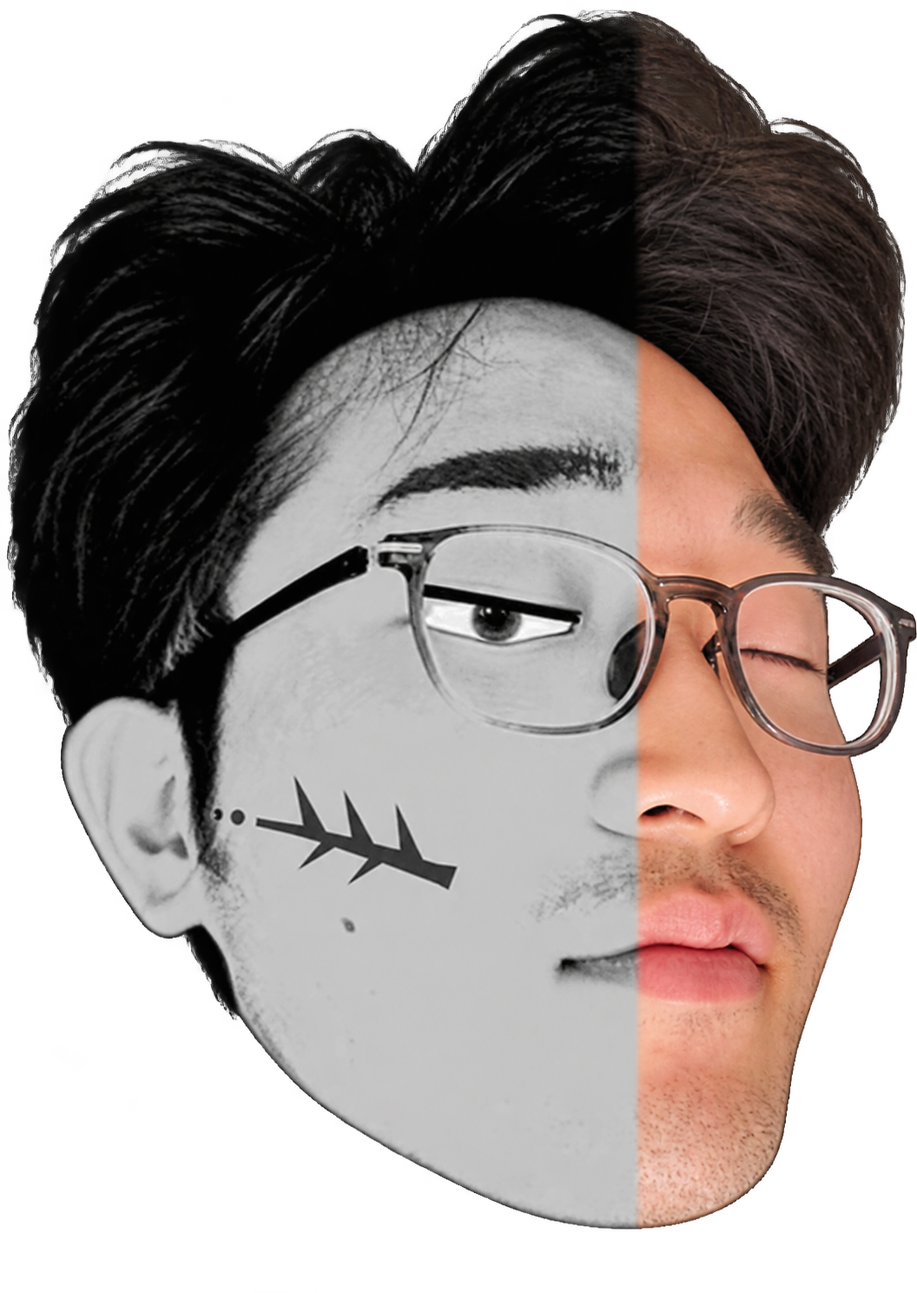
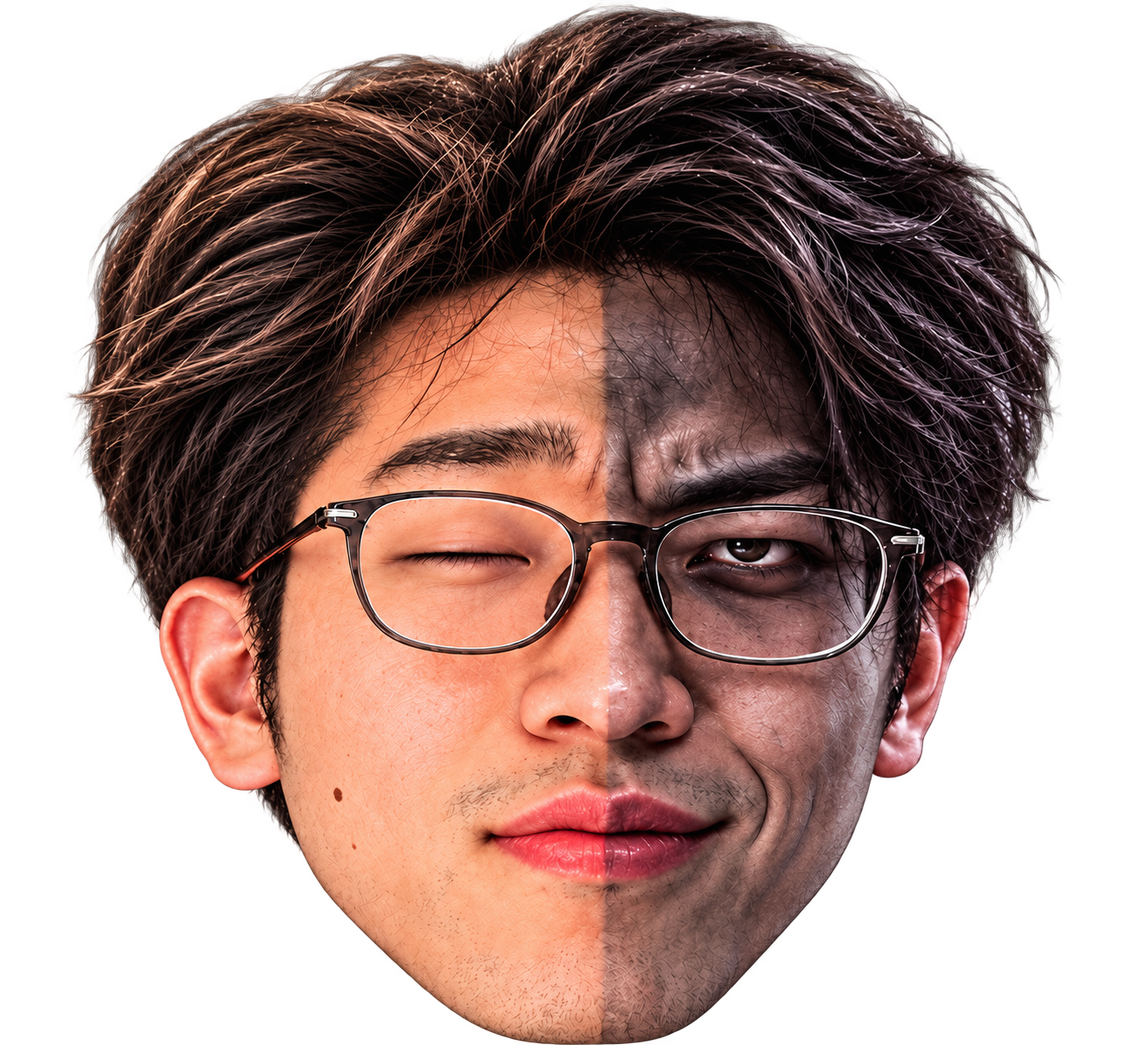
Update Jekyll and Haibeom character portraits

diff --git a/index.html b/index.html
@@ -243,7 +243,7 @@ html.prologue-pending #auth-gate[open]{visibility:visible}
 <dialog id="friends" aria-labelledby="fr-title"><h3 id="fr-title">👥 플레이어</h3><div id="fr-list-view"><ul id="fr-list"></ul><small id="fr-note">🟢 접속 · AI전 / 보스전 / 1대1 플레이중 (대전 신청 · 채팅) · ⚪ 미접속 (마지막 접속)</small></div>
 <div id="fr-chat-view" hidden><button type="button" id="fr-back" class="ghost">← 목록</button> <b id="fr-chat-name"></b><ul id="fr-msgs"></ul><form id="fr-form"><input id="fr-input" maxlength="200" autocomplete="off" placeholder="메시지 입력" aria-label="메시지"><button type="submit">보내기</button></form></div>
 <button type="button" id="fr-close" class="ghost">닫기</button></dialog>
-<dialog id="mychar" aria-labelledby="mc-title"><h3 id="mc-title">내 캐릭터 설정</h3><div class="char-card"><canvas id="char-face" width="224" height="224" aria-hidden="true"></canvas><b id="char-name">휴고범</b></div><label class="field">내 캐릭터 <select id="character"><option value="jersey" selected>휴고범 · 백핸드 강타 / 포핸드 실수 주의</option><option value="leesin">리신범 · 용의 드라이브 · 용의 스매싱 ×1.5 / 50% 앞이 깜깜</option><option value="percival">퍼시벌 · 왼손 사이드스핀 (상대 리턴 −8% · 아웃 +5%) · 자신감 (PERFECT마다 공격 +5%, 최대 3스택)</option><option value="drunk">만취범 · 괴력 7% ×2 · 17% ×1.5 · 15% ×1.2 · 8% 붕 뜬 공 · 득점 1% 무효</option><option value="ajae">아재범 · 우기기 (나간 공 10% 엣지 · 경기당 3점 · 못 받은 서브 30% 네트)</option><option value="minhee">민희쌤 · 너무 강력한 포핸드: 재끼기 10% · ×1.3 20% · 라켓 파손 10%</option><option value="yunhwan">카사노바 윤 · 커트 회전 ×1.3</option><option value="ttalgak">날먹세 · 서브 ×1.3 회전 · ×1.35 속도 · 리시브 20% 뜸 · 3% 네트 · 3% 아웃 / 급한 이동 −30%</option><option value="adam">아담 성 · 드라이브 대신 모든 공을 휘어 보냄 (드라이브엔 상회전 · 커트엔 하회전) · 찬스볼에 드라이브 스윙 = 스매시 페이크 짧은 공</option><option value="gambler">올인 도박사 · 랠리 첫 타 50% 대박(×1.8 · 상대 리턴 −25%) / 50% 쪽박(찬스볼) · 연속 득점마다 대박 +5%</option><option value="glass">유리대포 · 모든 타구 ×1.8 · PERFECT 아니면 30% 실수</option><option value="smashman">스매싱 광 · 모든 스윙이 스매시 ×1.3</option><option value="sleepy">지킬앤 희범 · 2점마다 변신: 지킬(실수 −15% · 공격 −10%) / 하이드(공격 +15% · 실수 +10%)</option><option value="jiseong">김치성 · 승승패패패: 3점 이상 앞서면 실수 +10% / 패패승승승: 3점 이상 지면 모든 타구 +30%</option><option value="songstar">송스타 · 수비수 라켓 · 백핸드 롱 수비 · 커트 회전 강화 · 포핸드 공격 5% 실수</option><option value="chungdae">충대 화잡이 · 포핸드 드라이브 회전 ×1.5 · 속도 ×1.3 · 서브 미스 10% · 서브 뜸 10% · 백핸드 뜬 공 10%</option><option value="kumho">금호탁구장관장 · 모든 리시브 로빙 · 찬스볼은 스매시 · 상회전 서브만 · 일본식 펜홀더</option><option value="jongryeong">빽종령 · 백스매시 10% ×1.3 · 백핸드 블록 +5% · 포핸드 뜬 공 5%</option><option value="seohyun">김서현 · 맞드라이브 속도 ×1.5 · 회전 ×1.3 · 짧은 커트 서브 · 백핸드 실수 10%</option><option value="plain">파란 선수</option></select></label><label class="field">내 라켓 <select id="racket"><option value="shake" selected>쉐이크핸드 · 백핸드 드라이브</option><option value="cpen">중국식 펜홀더 · 빠른 손목</option><option value="jpen">일본식 펜홀더 · 강한 한 방</option><option value="defense">수비수 라켓 · 백핸드 커트 · 포핸드 공격 가능</option></select></label><div id="gear" class="gear"><label class="field">목판 <select id="blade"><option value="ply">합판 · 안정적</option><option value="inner">이너 카본 · 회전</option><option value="outer">아우터 카본 · 속도</option></select></label><label class="field">러버 <select id="rubber"><option value="spin">09C · 회전 ↑↑ · 속도 ↓</option><option value="speed">05 · 속도 ↑↑ · 컨트롤 어려움</option><option value="control">64 · 컨트롤 좋음</option><option value="pips">SP 숏핌플 · 속도 ×1.3 · 회전 적음</option></select></label></div><div class="help-note" id="racket-note"></div><div class="apply-row"><small id="pending-note" hidden>변경사항이 있어요 · 적용을 눌러야 바뀝니다</small><button id="apply-settings" type="button" disabled>설정 적용</button></div><div class="su-row"><button type="button" id="mychar-close" class="ghost">닫기</button></div></dialog>
+<dialog id="mychar" aria-labelledby="mc-title"><h3 id="mc-title">내 캐릭터 설정</h3><div class="char-card"><canvas id="char-face" width="224" height="224" aria-hidden="true"></canvas><b id="char-name">휴고범</b></div><label class="field">내 캐릭터 <select id="character"><option value="jersey" selected>휴고범 · 백핸드 강타 / 포핸드 실수 주의</option><option value="leesin">리신범 · 용의 드라이브 · 용의 스매싱 ×1.5 / 50% 앞이 깜깜</option><option value="percival">퍼시벌 · 왼손 사이드스핀 (상대 리턴 −8% · 아웃 +5%) · 자신감 (PERFECT마다 공격 +5%, 최대 3스택)</option><option value="drunk">만취범 · 괴력 7% ×2 · 17% ×1.5 · 15% ×1.2 · 8% 붕 뜬 공 · 득점 1% 무효</option><option value="ajae">아재범 · 우기기 (나간 공 10% 엣지 · 경기당 3점 · 못 받은 서브 30% 네트)</option><option value="minhee">민희쌤 · 너무 강력한 포핸드: 재끼기 10% · ×1.3 20% · 라켓 파손 10%</option><option value="yunhwan">카사노바 윤 · 커트 회전 ×1.3</option><option value="ttalgak">날먹세 · 서브 ×1.3 회전 · ×1.35 속도 · 리시브 20% 뜸 · 3% 네트 · 3% 아웃 / 급한 이동 −30%</option><option value="adam">아담 성 · 드라이브 대신 모든 공을 휘어 보냄 (드라이브엔 상회전 · 커트엔 하회전) · 찬스볼에 드라이브 스윙 = 스매시 페이크 짧은 공</option><option value="gambler">올인 도박사 · 랠리 첫 타 50% 대박(×1.8 · 상대 리턴 −25%) / 50% 쪽박(찬스볼) · 연속 득점마다 대박 +5%</option><option value="glass">유리대포 · 모든 타구 ×1.8 · PERFECT 아니면 30% 실수</option><option value="smashman">스매싱 광 · 모든 스윙이 스매시 ×1.3</option><option value="sleepy">지킬앤 하이범 · 2점마다 변신: 지킬(실수 −15% · 공격 −10%) / 하이범(공격 +15% · 실수 +10%)</option><option value="jiseong">김치성 · 승승패패패: 3점 이상 앞서면 실수 +10% / 패패승승승: 3점 이상 지면 모든 타구 +30%</option><option value="songstar">송스타 · 수비수 라켓 · 백핸드 롱 수비 · 커트 회전 강화 · 포핸드 공격 5% 실수</option><option value="chungdae">충대 화잡이 · 포핸드 드라이브 회전 ×1.5 · 속도 ×1.3 · 서브 미스 10% · 서브 뜸 10% · 백핸드 뜬 공 10%</option><option value="kumho">금호탁구장관장 · 모든 리시브 로빙 · 찬스볼은 스매시 · 상회전 서브만 · 일본식 펜홀더</option><option value="jongryeong">빽종령 · 백스매시 10% ×1.3 · 백핸드 블록 +5% · 포핸드 뜬 공 5%</option><option value="seohyun">김서현 · 맞드라이브 속도 ×1.5 · 회전 ×1.3 · 짧은 커트 서브 · 백핸드 실수 10%</option><option value="plain">파란 선수</option></select></label><label class="field">내 라켓 <select id="racket"><option value="shake" selected>쉐이크핸드 · 백핸드 드라이브</option><option value="cpen">중국식 펜홀더 · 빠른 손목</option><option value="jpen">일본식 펜홀더 · 강한 한 방</option><option value="defense">수비수 라켓 · 백핸드 커트 · 포핸드 공격 가능</option></select></label><div id="gear" class="gear"><label class="field">목판 <select id="blade"><option value="ply">합판 · 안정적</option><option value="inner">이너 카본 · 회전</option><option value="outer">아우터 카본 · 속도</option></select></label><label class="field">러버 <select id="rubber"><option value="spin">09C · 회전 ↑↑ · 속도 ↓</option><option value="speed">05 · 속도 ↑↑ · 컨트롤 어려움</option><option value="control">64 · 컨트롤 좋음</option><option value="pips">SP 숏핌플 · 속도 ×1.3 · 회전 적음</option></select></label></div><div class="help-note" id="racket-note"></div><div class="apply-row"><small id="pending-note" hidden>변경사항이 있어요 · 적용을 눌러야 바뀝니다</small><button id="apply-settings" type="button" disabled>설정 적용</button></div><div class="su-row"><button type="button" id="mychar-close" class="ghost">닫기</button></div></dialog>
 <dialog id="aipick" aria-labelledby="ap-title"><h3 id="ap-title">AI 대전 · 난이도 선택</h3><p>상대의 부수(7부 ~ 선수부)는 설정의 '상대 난이도'에서 고를 수 있어요.</p><div class="pick-list"><button type="button" data-tier="easy"><b>이지</b><small>지금까지의 AI 대전 · 부수별로 편하게 즐겨요</small></button><button type="button" data-tier="hard"><b>하드</b><small>모든 공을 훨씬 잘 받아내고 필살기도 어느 정도 막아요 · 상대도 필살기를 써요</small></button><button type="button" data-tier="extreme"><b>익스트림</b><small>하드 + 터치 위치가 2곳인 '투클릭 공'이 와요 (7부 10% ~ 선수부 50%)</small></button><button type="button" data-tier="ultra"><b>울트라</b><small>상대의 모든 공이 투클릭 공 · 두 번 눌러야 넘어가요</small></button><button type="button" data-tier="uhard"><b>울트라 하드</b><small>높은 리턴률과 빠른 공격 · 최대 투터치</small></button><button type="button" data-tier="uext"><b>울트라 익스트림</b><small>최고 리턴률과 강한 회전 · 최대 투터치</small></button></div><div class="su-row"><button type="button" id="ap-close" class="ghost">닫기</button></div></dialog>
 <dialog id="pracpick" aria-labelledby="pp-title"><h3 id="pp-title">연습장</h3><p>연습할 모드를 고르세요. 점수 제한과 랭킹 기록이 없어요.</p><div class="pick-list"><button type="button" data-prac="practice"><b>🏓 연습 봇</b><small>일반 연습 랠리 · 리턴이 쉬워요</small></button><button type="button" data-prac="cutman"><b>✂ 커트맨 봇전</b><small>항상 두 번 튀는 짧은 커트 서브 · 테이블 위에서 받기 연습</small></button><button type="button" data-prac="twoclick"><b>🎯 투클릭 공 연습</b><small>공마다 터치 위치가 ①②로 두 곳 · 차례로 두 번 쳐서 넘기기</small></button><button type="button" data-prac="hiball"><b>🪂 높은 공 추적 연습</b><small>높은 로빙 공 · 타이밍 원에 맞춰 스윙</small></button></div><div class="su-row"><button type="button" id="pp-close" class="ghost">닫기</button></div></dialog>
 <dialog id="lobby" aria-labelledby="lb-title"><section id="lb-list"><h3 id="lb-title">빠른 매칭 · 방 목록</h3><p>들어갈 방을 고르거나, 마음에 드는 방이 없으면 직접 만드세요.</p><ul id="lb-rooms"></ul><small id="lb-msg" aria-live="polite"></small><div class="su-row"><button type="button" id="lb-close" class="ghost">닫기</button><button type="button" id="lb-refresh" class="ghost">새로고침 ↻</button><button type="button" id="lb-create">단식 방 만들기 (2명)</button><button type="button" id="lb-create2">복식 방 만들기 (4명)</button><button type="button" id="lb-create3">3인 방 만들기 (3명)</button></div></section><section id="lb-wait" hidden><h3>대기방</h3><p id="lb-sub">상대가 들어오면 대결을 시작할 수 있어요.</p><div class="lb-box"><small>방 코드</small><b id="lb-code">····</b></div><div class="lb-box"><small id="lb-n1">방장</small><b id="lb-p1">-</b></div><div class="lb-box"><small id="lb-n2">상대</small><b id="lb-slot2">상대를 기다리는 중…</b></div><div class="lb-box lb-dbl" hidden><small>상대 팀 1</small><b id="lb-slot3">기다리는 중…</b></div><div class="lb-box lb-dbl" hidden><small>상대 팀 2</small><b id="lb-slot4">기다리는 중…</b></div><div class="su-row"><button type="button" id="lb-leave" class="ghost">나가기</button><button type="button" id="lb-start" disabled>대결 시작 ▶</button></div></section></dialog>
@@ -251,7 +251,7 @@ html.prologue-pending #auth-gate[open]{visibility:visible}
 <section id="su-p1"><h3 id="su-title">라켓을 고르세요</h3><div id="su-racket" class="su-opts"></div><div id="su-gear"><label>목판 <select id="su-blade"></select></label><label>러버 <select id="su-rubber"></select></label></div><p id="su-note"></p><div class="su-row"><button type="button" id="su-cancel" class="ghost">취소</button><button type="button" id="su-next">다음 →</button></div></section>
 <section id="su-p2" hidden><h3>AI 대전 난이도를 고르세요</h3><div id="su-tier" class="su-opts"></div><div class="su-row"><button type="button" id="su-back2" class="ghost">← 이전</button><button type="button" id="su-next2">다음 →</button></div></section>
 <section id="su-p3" hidden><h3>상대 부수를 고르세요</h3><div id="su-diff" class="su-opts"></div><div class="su-row"><button type="button" id="su-back" class="ghost">← 이전</button><button type="button" id="su-play">플레이 시작 ↗</button></div></section></dialog>
-<p id="victory-status" role="status" aria-live="polite" hidden></p><div id="overlay" class="overlay"><div class="start-card"><span class="pill">YOUR NEXT RALLY STARTS HERE</span><h2>SNAP Ping pong</h2><p></p><div id="lv-box"><b id="lv-label">Lv 1</b><span class="lv-bar"><i id="lv-fill"></i></span><small id="lv-xp">0 / 100 XP</small><button type="button" id="rn-open">스킬트리 · 필살기 <b id="rn-badge" hidden>!</b></button><button type="button" id="q-open">📜 퀘스트 <b id="q-badge" hidden>!</b></button><button type="button" id="t-open">🏅 칭호</button><button type="button" id="fit-open">👕 커스터마이징</button><span id="lv-title" hidden></span></div><div id="login-box"><button id="google-login" type="button"><svg viewBox="0 0 48 48" width="18" height="18" aria-hidden="true"><path fill="#EA4335" d="M24 9.5c3.5 0 6.6 1.2 9.1 3.6l6.8-6.8C35.8 2.5 30.3 0 24 0 14.6 0 6.6 5.4 2.7 13.3l7.9 6.1C12.5 13.6 17.8 9.5 24 9.5z"/><path fill="#4285F4" d="M46.1 24.6c0-1.6-.1-3.1-.4-4.6H24v9h12.4c-.5 2.9-2.2 5.3-4.6 6.9l7.4 5.7c4.3-4 6.9-9.9 6.9-17z"/><path fill="#FBBC05" d="M10.6 28.6c-.5-1.4-.8-3-.8-4.6s.3-3.2.8-4.6l-7.9-6.1C1 16.6 0 20.2 0 24s1 7.4 2.7 10.7l7.9-6.1z"/><path fill="#34A853" d="M24 48c6.5 0 11.9-2.1 15.9-5.8l-7.4-5.7c-2.1 1.4-4.8 2.3-8.5 2.3-6.2 0-11.5-4.1-13.4-9.9l-7.9 6.1C6.6 42.6 14.6 48 24 48z"/></svg>Google로 로그인</button><button id="naver-login" type="button" hidden><b>N</b> 네이버로 로그인</button><button id="google-logout" type="button" hidden>로그아웃</button><small id="login-status"></small></div><div id="char-pick" role="radiogroup" aria-label="캐릭터 선택"><button type="button" role="radio" data-char="jersey"><canvas width="96" height="96" aria-hidden="true"></canvas>휴고범</button><button type="button" role="radio" data-char="leesin"><canvas width="96" height="96" aria-hidden="true"></canvas>리신범</button><button type="button" role="radio" data-char="percival"><canvas width="96" height="96" aria-hidden="true"></canvas>퍼시벌</button><button type="button" role="radio" data-char="drunk"><canvas width="96" height="96" aria-hidden="true"></canvas>만취범</button><button type="button" role="radio" data-char="ajae"><canvas width="96" height="96" aria-hidden="true"></canvas>아재범</button><button type="button" role="radio" data-char="minhee"><canvas width="96" height="96" aria-hidden="true"></canvas>민희쌤</button><button type="button" role="radio" data-char="yunhwan"><canvas width="96" height="96" aria-hidden="true"></canvas>카사노바 윤</button><button type="button" role="radio" data-char="seohyun"><canvas width="96" height="96" aria-hidden="true"></canvas>김서현</button><button type="button" role="radio" data-char="jongryeong"><canvas width="96" height="96" aria-hidden="true"></canvas>빽종령</button><button type="button" role="radio" data-char="kumho"><canvas width="96" height="96" aria-hidden="true"></canvas>금호관장</button><button type="button" role="radio" data-char="chungdae"><canvas width="96" height="96" aria-hidden="true"></canvas>화잡이</button><button type="button" role="radio" data-char="songstar"><canvas width="96" height="96" aria-hidden="true"></canvas>송스타</button><button type="button" role="radio" data-char="ttalgak"><canvas width="96" height="96" aria-hidden="true"></canvas>날먹세</button><button type="button" role="radio" data-char="jiseong"><canvas width="96" height="96" aria-hidden="true"></canvas>김치성</button><button type="button" role="radio" data-char="sleepy"><canvas width="96" height="96" aria-hidden="true"></canvas>지킬앤 희범</button><button type="button" role="radio" data-char="adam"><canvas width="96" height="96" aria-hidden="true"></canvas>아담 성</button><button type="button" role="radio" data-char="gambler"><canvas width="96" height="96" aria-hidden="true"></canvas>올인 도박사</button><button type="button" role="radio" data-char="glass"><canvas width="96" height="96" aria-hidden="true"></canvas>유리대포</button><button type="button" role="radio" data-char="smashman"><canvas width="96" height="96" aria-hidden="true"></canvas>스매싱 광</button></div><div id="rank-submit" hidden><div class="rank-row" hidden><input id="rank-name" maxlength="12" placeholder="닉네임 (12자)" autocomplete="nickname" aria-label="랭킹 닉네임"><button id="rank-send" type="button">랭킹 등록 🏆</button></div><small id="rank-msg" aria-live="polite"></small></div><button id="resume" hidden>이어하기 <span>▶</span></button><button id="mode-open" type="button">모드 설정 <span>⚙</span></button><button id="start">플레이 시작 <span>↗</span></button><div id="net-box"><input id="net-nick" hidden maxlength="12" placeholder="닉네임 (랭킹전 표시)" autocomplete="nickname" aria-label="닉네임"><small id="pvp-me"></small><button id="net-quick" type="button">빠른 매칭 🎲</button><button id="net-host" type="button">온라인 방 만들기 <span>⇄</span></button><div class="net-join"><input id="net-code" maxlength="4" placeholder="방 코드" autocomplete="off" autocapitalize="characters" aria-label="방 코드"><button id="net-join" type="button">참가</button></div><small id="net-status" aria-live="polite">빠른 매칭: 방 목록에서 방을 고르거나 직접 만들어요 · 친구와는 방 코드로</small></div><small>손가락 또는 마우스로 플레이 · 일시정지 버튼 / Space</small></div></div><div id="toast" class="toast">링이 라켓 크기 원에 딱 맞는 순간 스윙하세요</div><div id="ai-special-notice" class="ai-special-notice" role="status" aria-live="polite" hidden></div></div><section id="ceremony-media" class="ceremony-media" aria-label="세리머니 음악" hidden><div id="ceremony-player-slot"></div><div class="ceremony-media-copy"><strong>VICTORY DANCE ♪</strong><p id="ceremony-music-status" role="status" aria-live="polite">음악 준비 중…</p><button id="ceremony-music-play" type="button">음악 재생 ♪</button></div></section><div class="timing-legend" aria-label="공 테두리원 타이밍 안내"><span><i class="ring wait"></i> WAIT · 링이 줄어드는 중</span><span><i class="ring ready"></i> READY · 타격 가능</span><span><i class="ring ideal"></i> 지금! · 링 = 라켓 크기</span><span><i class="ring fh"></i> 포핸드</span><span><i class="ring bh"></i> 백핸드</span></div><div class="touch-toolbar"><p>손가락 위에 라켓이 표시됩니다 · 드래그 스윙</p><span id="touch-special" aria-live="polite">✦ 필살기 0%</span></div><div class="arena-bottom"><div><span class="keycap">DRAG</span> 스윙</div><div><span class="keycap">SPACE</span> 일시정지</div><button id="fullscreen" type="button">⛶ 전체화면</button><button id="exit-fullscreen" type="button" hidden>전체화면 해제</button><button id="home" hidden>⌂ 처음 화면</button><button id="restart">↻ 다시 시작</button></div></section>
+<p id="victory-status" role="status" aria-live="polite" hidden></p><div id="overlay" class="overlay"><div class="start-card"><span class="pill">YOUR NEXT RALLY STARTS HERE</span><h2>SNAP Ping pong</h2><p></p><div id="lv-box"><b id="lv-label">Lv 1</b><span class="lv-bar"><i id="lv-fill"></i></span><small id="lv-xp">0 / 100 XP</small><button type="button" id="rn-open">스킬트리 · 필살기 <b id="rn-badge" hidden>!</b></button><button type="button" id="q-open">📜 퀘스트 <b id="q-badge" hidden>!</b></button><button type="button" id="t-open">🏅 칭호</button><button type="button" id="fit-open">👕 커스터마이징</button><span id="lv-title" hidden></span></div><div id="login-box"><button id="google-login" type="button"><svg viewBox="0 0 48 48" width="18" height="18" aria-hidden="true"><path fill="#EA4335" d="M24 9.5c3.5 0 6.6 1.2 9.1 3.6l6.8-6.8C35.8 2.5 30.3 0 24 0 14.6 0 6.6 5.4 2.7 13.3l7.9 6.1C12.5 13.6 17.8 9.5 24 9.5z"/><path fill="#4285F4" d="M46.1 24.6c0-1.6-.1-3.1-.4-4.6H24v9h12.4c-.5 2.9-2.2 5.3-4.6 6.9l7.4 5.7c4.3-4 6.9-9.9 6.9-17z"/><path fill="#FBBC05" d="M10.6 28.6c-.5-1.4-.8-3-.8-4.6s.3-3.2.8-4.6l-7.9-6.1C1 16.6 0 20.2 0 24s1 7.4 2.7 10.7l7.9-6.1z"/><path fill="#34A853" d="M24 48c6.5 0 11.9-2.1 15.9-5.8l-7.4-5.7c-2.1 1.4-4.8 2.3-8.5 2.3-6.2 0-11.5-4.1-13.4-9.9l-7.9 6.1C6.6 42.6 14.6 48 24 48z"/></svg>Google로 로그인</button><button id="naver-login" type="button" hidden><b>N</b> 네이버로 로그인</button><button id="google-logout" type="button" hidden>로그아웃</button><small id="login-status"></small></div><div id="char-pick" role="radiogroup" aria-label="캐릭터 선택"><button type="button" role="radio" data-char="jersey"><canvas width="96" height="96" aria-hidden="true"></canvas>휴고범</button><button type="button" role="radio" data-char="leesin"><canvas width="96" height="96" aria-hidden="true"></canvas>리신범</button><button type="button" role="radio" data-char="percival"><canvas width="96" height="96" aria-hidden="true"></canvas>퍼시벌</button><button type="button" role="radio" data-char="drunk"><canvas width="96" height="96" aria-hidden="true"></canvas>만취범</button><button type="button" role="radio" data-char="ajae"><canvas width="96" height="96" aria-hidden="true"></canvas>아재범</button><button type="button" role="radio" data-char="minhee"><canvas width="96" height="96" aria-hidden="true"></canvas>민희쌤</button><button type="button" role="radio" data-char="yunhwan"><canvas width="96" height="96" aria-hidden="true"></canvas>카사노바 윤</button><button type="button" role="radio" data-char="seohyun"><canvas width="96" height="96" aria-hidden="true"></canvas>김서현</button><button type="button" role="radio" data-char="jongryeong"><canvas width="96" height="96" aria-hidden="true"></canvas>빽종령</button><button type="button" role="radio" data-char="kumho"><canvas width="96" height="96" aria-hidden="true"></canvas>금호관장</button><button type="button" role="radio" data-char="chungdae"><canvas width="96" height="96" aria-hidden="true"></canvas>화잡이</button><button type="button" role="radio" data-char="songstar"><canvas width="96" height="96" aria-hidden="true"></canvas>송스타</button><button type="button" role="radio" data-char="ttalgak"><canvas width="96" height="96" aria-hidden="true"></canvas>날먹세</button><button type="button" role="radio" data-char="jiseong"><canvas width="96" height="96" aria-hidden="true"></canvas>김치성</button><button type="button" role="radio" data-char="sleepy"><canvas width="96" height="96" aria-hidden="true"></canvas>지킬앤 하이범</button><button type="button" role="radio" data-char="adam"><canvas width="96" height="96" aria-hidden="true"></canvas>아담 성</button><button type="button" role="radio" data-char="gambler"><canvas width="96" height="96" aria-hidden="true"></canvas>올인 도박사</button><button type="button" role="radio" data-char="glass"><canvas width="96" height="96" aria-hidden="true"></canvas>유리대포</button><button type="button" role="radio" data-char="smashman"><canvas width="96" height="96" aria-hidden="true"></canvas>스매싱 광</button></div><div id="rank-submit" hidden><div class="rank-row" hidden><input id="rank-name" maxlength="12" placeholder="닉네임 (12자)" autocomplete="nickname" aria-label="랭킹 닉네임"><button id="rank-send" type="button">랭킹 등록 🏆</button></div><small id="rank-msg" aria-live="polite"></small></div><button id="resume" hidden>이어하기 <span>▶</span></button><button id="mode-open" type="button">모드 설정 <span>⚙</span></button><button id="start">플레이 시작 <span>↗</span></button><div id="net-box"><input id="net-nick" hidden maxlength="12" placeholder="닉네임 (랭킹전 표시)" autocomplete="nickname" aria-label="닉네임"><small id="pvp-me"></small><button id="net-quick" type="button">빠른 매칭 🎲</button><button id="net-host" type="button">온라인 방 만들기 <span>⇄</span></button><div class="net-join"><input id="net-code" maxlength="4" placeholder="방 코드" autocomplete="off" autocapitalize="characters" aria-label="방 코드"><button id="net-join" type="button">참가</button></div><small id="net-status" aria-live="polite">빠른 매칭: 방 목록에서 방을 고르거나 직접 만들어요 · 친구와는 방 코드로</small></div><small>손가락 또는 마우스로 플레이 · 일시정지 버튼 / Space</small></div></div><div id="toast" class="toast">링이 라켓 크기 원에 딱 맞는 순간 스윙하세요</div><div id="ai-special-notice" class="ai-special-notice" role="status" aria-live="polite" hidden></div></div><section id="ceremony-media" class="ceremony-media" aria-label="세리머니 음악" hidden><div id="ceremony-player-slot"></div><div class="ceremony-media-copy"><strong>VICTORY DANCE ♪</strong><p id="ceremony-music-status" role="status" aria-live="polite">음악 준비 중…</p><button id="ceremony-music-play" type="button">음악 재생 ♪</button></div></section><div class="timing-legend" aria-label="공 테두리원 타이밍 안내"><span><i class="ring wait"></i> WAIT · 링이 줄어드는 중</span><span><i class="ring ready"></i> READY · 타격 가능</span><span><i class="ring ideal"></i> 지금! · 링 = 라켓 크기</span><span><i class="ring fh"></i> 포핸드</span><span><i class="ring bh"></i> 백핸드</span></div><div class="touch-toolbar"><p>손가락 위에 라켓이 표시됩니다 · 드래그 스윙</p><span id="touch-special" aria-live="polite">✦ 필살기 0%</span></div><div class="arena-bottom"><div><span class="keycap">DRAG</span> 스윙</div><div><span class="keycap">SPACE</span> 일시정지</div><button id="fullscreen" type="button">⛶ 전체화면</button><button id="exit-fullscreen" type="button" hidden>전체화면 해제</button><button id="home" hidden>⌂ 처음 화면</button><button id="restart">↻ 다시 시작</button></div></section>
 <aside><section class="control-card"><div class="eyebrow">SESSION SETTINGS</div><h3>설정</h3><div class="segmented" aria-label="게임 모드"><button data-mode="rank" id="rank-mode">🎖 랭크전</button><button data-mode="match" class="active">AI 대전</button><button data-mode="doubles">복식</button><button data-mode="boss">보스전</button><button data-mode="trio">3인 대전</button><button data-mode="practice">연습장</button><button data-mode="infdrive">♾ 무한 드라이브</button></div><div id="boss-pick" role="radiogroup" aria-label="보스 선택" hidden><button type="button" role="radio" data-boss="minhee">👑 민희쌤 (보스)</button><button type="button" role="radio" data-boss="boss">😈 탁구 마왕</button><button type="button" role="radio" data-boss="sejong">👵 세종 9부 아줌마</button><button type="button" role="radio" data-boss="godyung">🃏 사기부수 갓융자</button></div><label class="field">상대 난이도 <select id="difficulty"><option value="b7">7부 · 여유로운 템포</option><option value="b6">6부 · 가볍게 랠리</option><option value="b5">5부 · 리듬 있는 랠리</option><option value="b4" selected>4부 · 공격이 섞이는 랠리</option><option value="b3">3부 · 빠른 랠리</option><option value="b2">2부 · 코스를 찌르는 상대</option><option value="b1">1부 · 거의 다 받아치는 상대</option><option value="pro">선수부 · 최강</option></select></label><button id="mychar-open" type="button">🏓 내 캐릭터 설정 <b id="mychar-sel"></b></button><div class="help-note">연습 모드는 리턴이 쉬워지고,<br>경기 모드는 11점 · 2점 차로 승리합니다.</div></section><section class="swing-card"><div class="eyebrow">LIVE SWING DATA <i class="live-dot"></i></div><div class="shot-name" id="shot">READY<span id="shot-sub">첫 스윙을 기다리는 중</span></div><div class="meter-label"><span>스윙 속도</span><b id="speed">0 <small>px/s</small></b></div><div class="meter"><i id="meter"></i></div><div class="metrics"><div><span>타이밍</span><b id="timing">—</b></div><div><span>회전</span><b id="spin">—</b></div></div><div class="special"><div class="meter-label"><span id="special-name">✦ 초승달 드라이브</span><b id="special-value">0%</b></div><div class="meter special-meter" aria-hidden="true"><i id="special-fill"></i></div><p id="special-status" aria-live="polite">성공 +20% · PERFECT +30%</p><small>게이지가 100%가 되면<br>다음 타격에 자동으로 발동합니다</small></div><div class="rally"><span>현재 랠리 <b id="rally">0</b></span><span>최고 <b id="best">0</b></span></div></section><div class="tip"><span>↗ COACH'S NOTE</span><p id="coach">공이 내 코트에 한 번 튄 뒤, 내 쪽 끝선을 넘어올 때까지 기다리세요. 공 오른쪽은 포핸드(검정), 왼쪽은 백핸드(빨강)입니다.</p></div></aside></div>
 <section class="techniques"><div class="tech-heading"><h3>방향과 박자로 완성하는, 여덟 가지 플레이.</h3><span>드래그 속도가 스윙의 강도를 결정합니다</span></div><div class="tech-grid">
 <article><span class="tech-icon">↖</span><div><b>루프 드라이브</b><small>공 오른쪽 아래에서 위로 쓸기</small></div><span class="tech-number">01</span></article>
@@ -409,8 +409,8 @@ drunk:{name:'만취범',nick:'만취범',kit:{name:'MANCHWI',color:'#ff8a8a'},fa
 ajae:{name:'아재범',nick:'아재범',kit:{name:'AJAE',color:'#9fb4ff'},face:'ajae',faceFit:{h:55,b:27,cx:.47},ajae:true,ceremony:'아닌데? 아닌데? 🤨',split:true,stanceK:1.05,crouchK:.1,shirt:'#1f2c5e',sleeve:'#1f2c5e',longSleeve:true,backpack:true,collar:'#16204a',pants:'#2e2f35',hair:'#1a1410',skin:'#e7b896',skinShade:'#c99474'},
 // 꿀잠범, from the user's photo: asleep in a chair - messy black hair, clear-frame glasses, eyes shut, stubble, black
 // sweatshirt; grey sweatpants. Little z's float up from him; every 3 points he naps - a sweet dream lifts him, a nightmare drags him down.
-// 지킬앤 희범 (was 꿀잠범): every 2 points he switches - 지킬 (colour photo): mistakes -20%, every shot -10% / 하이드 (black-and-white, mirrored, angry brows): every shot +20%, mistakes +10%.
-sleepy:{name:'지킬앤 희범',nick:'지킬앤 희범',kit:{name:'JEKYLL',color:'#bfe3ff'},face:'sleepy',faceFit:{h:54,b:25,cx:.5},jekyll:true,ceremony:'C52.5!',split:true,stanceK:1.05,crouchK:.08,shirt:'#17171b',sleeve:'#17171b',longSleeve:true,collar:'#0d0d10',pants:'#5d606a',hair:'#17110d',skin:'#e9bf9e',skinShade:'#cc9a7a'},
+// 지킬앤 하이범 (was 꿀잠범): every 2 points he switches - 지킬 (colour photo): mistakes -20%, every shot -10% / 하이범 (black-and-white, mirrored, angry brows): every shot +20%, mistakes +10%.
+sleepy:{name:'지킬앤 하이범',nick:'지킬앤 하이범',kit:{name:'JEKYLL',color:'#bfe3ff'},face:'sleepy',faceFit:{h:54,b:25,cx:.5},jekyll:true,ceremony:'C52.5!',split:true,stanceK:1.05,crouchK:.08,shirt:'#17171b',sleeve:'#17171b',longSleeve:true,collar:'#0d0d10',pants:'#5d606a',hair:'#17110d',skin:'#e9bf9e',skinShade:'#cc9a7a'},
 // 민희쌤, from the user's three reference photos (backhand / serve / forehand): copper bob, light-blue polo, navy skort. Drawn in the game's own style.
 // 카사노바 윤, from the user's photo: soft black mop-top, easy smile. Cuts carry 1.3x backspin.
 yunhwan:{name:'카사노바 윤',nick:'카사노바 윤',kit:{name:'YUNHWAN',color:'#7fe0b0'},face:'yunhwan',faceFit:{h:58,b:27,cx:.5},cutK:1.3,ceremony:'오오오!!! 🔥',split:true,stanceK:1.1,crouchK:.12,shirt:'#1d6b52',sleeve:'#1d6b52',collar:'#7fe0b0',pants:'#16181d',shorts:true,hair:'#17120e',skin:'#efc6a6',skinShade:'#d3a284'},
@@ -1040,8 +1040,8 @@ function napRoll(st,look,who){if(!look||!(look.sleepy||look.moody)){st.mood=0;re
 if(look.moody){st.moodLeft=1;toast(who+'퍼시벌'+(st.mood>0?' 컨디션 최고 🔥 이번 점수 모든 능력 +10%':' 컨디션 난조 💧 이번 점수 모든 능력 −10%'),1.6);return;}
 st.moodLeft=SLEEP_POINTS;st.taunt=st.mood>0?'꿀잠 😴✨':'악몽 😱';st.tauntT=time;toast(who+'꿀잠범'+(st.mood>0?' 꿀잠 😴✨ 3점 동안 모든 능력 +10%':' 악몽 😱 3점 동안 모든 능력 −10%'),2);}
 // 퍼시벌 왼손잡이: +10% against a right-handed opponent, -10% against a left-handed one (AI handedness is rolled each game)
-function jk(){return Math.floor((you+cpu)/2)%2?-1:1;}   // 지킬앤 희범: +1 지킬 / -1 하이드, switching every 2 points
-function napTick(){for(const [st,look,who,oppLefty] of [[me,LOOKS[charType],'',aiLefty],[foe,LOOKS[aiChar],'상대 ',!!LOOKS[charType].lefty]]){if(look&&look.jekyll){const j=jk();if(st.jk!==j){st.jk=j;st.taunt=j>0?'지킬 😇':'하이드 😈';st.tauntT=time;toast(who+(j>0?'지킬 😇 수비 모드 · 실수 −15% · 공격 −10%':'하이드 😈 공격 모드 · 공격 +15% · 실수 +10%'),1.8);}continue;}
+function jk(){return Math.floor((you+cpu)/2)%2?-1:1;}   // 지킬앤 하이범: +1 지킬 / -1 하이범, switching every 2 points
+function napTick(){for(const [st,look,who,oppLefty] of [[me,LOOKS[charType],'',aiLefty],[foe,LOOKS[aiChar],'상대 ',!!LOOKS[charType].lefty]]){if(look&&look.jekyll){const j=jk();if(st.jk!==j){st.jk=j;st.taunt=j>0?'지킬 😇':'하이범 😈';st.tauntT=time;toast(who+(j>0?'지킬 😇 수비 모드 · 실수 −15% · 공격 −10%':'하이범 😈 공격 모드 · 공격 +15% · 실수 +10%'),1.8);}continue;}
 if(look&&look.vsHand){const m=oppLefty?-1:1;if(st.mood!==m){st.mood=m;toast(who+'퍼시벌 '+(m>0?'vs 오른손잡이 🔥 모든 능력 +10%':'vs 왼손잡이 💧 모든 능력 −10%'),1.8);}continue;}
 if(!look||!(look.sleepy||look.moody)){st.mood=0;continue;}if(!st.mood||--st.moodLeft<=0)napRoll(st,look,who);}}
 const DRUNK_FLOAT=.08;let drunkM=1.5,drunkR=1;
@@ -1050,7 +1050,7 @@ const DRUNK_NOSCORE=.01;   // 만취범's won point: 1% he is too drunk to turn 
 const TRAIT_POWER=.3,TRAIT_MULT=1.25,TRAIT_ERR=.1,SIDE_NAME={'1':'포핸드','-1':'백핸드'};
 // Head-only cutouts use their own chin anchors; untouched photos keep their original fit.
 const HEAD_FITS={yunhwan:{h:49,b:22,cx:.5},jongryeong:{h:49,b:21.5,cx:.46},ajae:{h:49,b:23.5,cx:.5},sleepy:{h:49,b:20,cx:.5},hyde:{h:49,b:20,cx:.5},percival:{h:45,b:19.5,cx:.45},adam:{h:49,b:24,cx:.5},smashman:{h:49,b:24,cx:.5},pastor:{h:49,b:24,cx:.5},minheeS:{h:49,b:20.5,cx:.42}};
-const FACES={};for(const [k,f] of [['hugo','hugo-face.png'],['gambler','gambler-face.png'],['leesin','leesin-face.png'],['percival','percival-face.png'],['drunk','drunk-face.png'],['ajae','ajae-face.png'],['sleepy','sleepy-face.png'],['hyde','hyde-face.png'],['jh','jekyll-hyde-face.png'],['minhee','minhee-face.png'],['yunhwan','yunhwan-face.png'],['seohyun','seohyun-face.png'],['jongryeong','jongryeong-face.png'],['songstar','songstar-face.png'],['ttalgak','ttalgak-face.png'],['adam','adam-face.png?v=2'],['smashman','smashman-face.png?v=1'],['pastor','pastor-face.png?v=1'],['godyung','godyung-face.png'],['jiseong','jiseong-face.png'],['infibot','infibot-face.png'],['boss','boss-face.png'],['minheeS','minhee-serve.png'],['minheeF','minhee-fh.png']]){const im=new Image();im.photoFit=HEAD_FITS[k];im.fetchPriority=['minhee','gambler'].includes(k)?'high':'low';im.src=f;im.onload=()=>{if(typeof setCharacter==='function')setCharacter(charType);};FACES[k]=im;}
+const FACES={};for(const [k,f] of [['hugo','hugo-face.png'],['gambler','gambler-face.png'],['leesin','leesin-face.png'],['percival','percival-face.png'],['drunk','drunk-face.png'],['ajae','ajae-face.png'],['sleepy','sleepy-face.png?v=2'],['hyde','hyde-face.png?v=2'],['jh','jekyll-hyde-face.png?v=2'],['minhee','minhee-face.png'],['yunhwan','yunhwan-face.png'],['seohyun','seohyun-face.png'],['jongryeong','jongryeong-face.png'],['songstar','songstar-face.png'],['ttalgak','ttalgak-face.png'],['adam','adam-face.png?v=2'],['smashman','smashman-face.png?v=1'],['pastor','pastor-face.png?v=1'],['godyung','godyung-face.png'],['jiseong','jiseong-face.png'],['infibot','infibot-face.png'],['boss','boss-face.png'],['minheeS','minhee-serve.png'],['minheeF','minhee-fh.png']]){const im=new Image();im.photoFit=HEAD_FITS[k];im.fetchPriority=['minhee','gambler'].includes(k)?'high':'low';im.src=f;im.onload=()=>{if(typeof setCharacter==='function')setCharacter(charType);};FACES[k]=im;}
 const faceImg=look=>{const im=look&&look.face&&FACES[look.jekyll&&jk()<0?'hyde':look.face];return im&&im.complete&&im.naturalWidth?im:null;};
 // Each racket's special: shot type in PingPhysics.shot, trail colour, coach line.
 const SPECIALS={
@@ -2683,7 +2683,7 @@ g.bezierCurveTo(74,43,66,45,58,42);g.quadraticCurveTo(52,40,48,46);g.quadraticCu
 g.strokeStyle='#d98245';g.lineWidth=1.3;g.lineCap='round';for(const [a,b,c1,d1,e,f2] of [[40,18,52,12,66,16],[34,26,44,16,58,14],[48,30,62,20,78,26],[36,36,38,26,46,20],[70,22,80,28,84,40],[30,50,30,40,34,30]]){g.beginPath();g.moveTo(a,b);g.quadraticCurveTo(c1,d1,e,f2);g.stroke();}
 g.strokeStyle='#7a3516';g.lineWidth=1;for(const [a,b,c1,d1,e,f2] of [[44,24,58,20,72,24],[32,60,30,70,32,82],[80,56,82,68,79,80],[40,34,50,28,60,32]]){g.beginPath();g.moveTo(a,b);g.quadraticCurveTo(c1,d1,e,f2);g.stroke();}
 }
-function drawFace(c,look){if(look.glass){const g=c.getContext('2d'),oldCtx=ctx,oldH=H,s=c.width/140;g.setTransform(1,0,0,1,0,0);g.clearRect(0,0,c.width,c.height);try{ctx=g;H=c.height;drawCannon({x:c.width*.48,vx:0,legLen:30*s},c.height*.68,{x:c.width*.8,y:c.height*.28},s,1,-1);}finally{ctx=oldCtx;H=oldH;}return;}if(look.bob&&!faceImg(look)){drawBobFace(c,look);return;}const jh=look.jekyll&&FACES.jh,fimg=jh&&jh.complete&&jh.naturalWidth?jh:faceImg(look);   /* 지킬앤 희범 portrait: half 하이드 / half 지킬 */if(fimg){const g=c.getContext('2d');g.setTransform(1,0,0,1,0,0);g.clearRect(0,0,c.width,c.height);const w=c.width*.82,h=w*fimg.naturalHeight/fimg.naturalWidth;g.drawImage(fimg,c.width/2-w*(look.faceFit&&look.faceFit.cx||.5),c.height*.04,w,h);return;}
+function drawFace(c,look){if(look.glass){const g=c.getContext('2d'),oldCtx=ctx,oldH=H,s=c.width/140;g.setTransform(1,0,0,1,0,0);g.clearRect(0,0,c.width,c.height);try{ctx=g;H=c.height;drawCannon({x:c.width*.48,vx:0,legLen:30*s},c.height*.68,{x:c.width*.8,y:c.height*.28},s,1,-1);}finally{ctx=oldCtx;H=oldH;}return;}if(look.bob&&!faceImg(look)){drawBobFace(c,look);return;}const jh=look.jekyll&&FACES.jh,fimg=jh&&jh.complete&&jh.naturalWidth?jh:faceImg(look);   /* 지킬앤 하이범 portrait: half 하이범 / half 지킬 */if(fimg){const g=c.getContext('2d');g.setTransform(1,0,0,1,0,0);g.clearRect(0,0,c.width,c.height);const w=c.width*.82,h=w*fimg.naturalHeight/fimg.naturalWidth;g.drawImage(fimg,c.width/2-w*(look.faceFit&&look.faceFit.cx||.5),c.height*.04,w,h);return;}
 const g=c.getContext('2d'),u=c.width/112,skin='#f3d1b0',shade='#dcae88',ink='#21180f',P2=Math.PI*2;g.setTransform(u,0,0,u,0,0);g.clearRect(0,0,112,112);
 const el=(x,y,rx,ry,f)=>{g.beginPath();g.ellipse(x,y,rx,ry,0,0,P2);g.fillStyle=f;g.fill();};
 // jersey
@@ -2753,7 +2753,7 @@ adam:{tag:'휘어지는 공의 마술사',rows:[['plus','커브','모든 공을 
 gambler:{tag:'하이 리스크 하이 리턴 · 매 랠리가 도박',rows:[['plus','대박 50%','랠리 첫 타: 속도 · 회전 ×1.8 · 상대 리턴 −25% 🎰'],['minus','쪽박 50%','랠리 첫 타가 붕 떠서 상대 찬스볼'],['plus','판돈 쌓기','연속 득점마다 대박 확률 +5% (최대 70%) · 실점하면 50%로'],['perf','PERFECT','"올인!! 🎰"']]},
 glass:{tag:'게임 최강 화력 · 유리 멘탈',rows:[['plus','유리대포','모든 타구 속도 · 회전 ×1.8'],['minus','깨지는 유리','PERFECT가 아니면 30% 실수 (네트 · 아웃) · 투클릭 이상 공은 터치 중 하나라도 PERFECT면 실수 없음'],['perf','PERFECT','"쨍그랑~"']]},
 smashman:{tag:'눈에 보이는 건 다 때린다',rows:[['plus','스매싱 광','아무 공이나 스윙하면 무조건 스매시 · 스매시 속도 ×1.3'],['perf','PERFECT','"아몰랑~ 스매시!!! 💥"']]},
-sleepy:{tag:'2점마다 지킬 ↔ 하이드 변신',rows:[['info','변신','경기 점수 2점마다 지킬(컬러)과 하이드(흑백)가 번갈아 나와요'],['plus','지킬 😇','수비 특화: 실수할 확률 −15%'],['minus','지킬 😇','모든 공격 −10% (속도 · 회전)'],['plus','하이드 😈','공격 특화: 모든 공격 +15% (속도 · 회전)'],['minus','하이드 😈','실수할 확률 +10%'],['perf','PERFECT','지킬 "C52.5!" · 하이드 "C57.5!"']]},
+sleepy:{tag:'2점마다 지킬 ↔ 하이범 변신',rows:[['info','변신','경기 점수 2점마다 지킬과 하이범가 번갈아 나와요'],['plus','지킬 😇','수비 특화: 실수할 확률 −15%'],['minus','지킬 😇','모든 공격 −10% (속도 · 회전)'],['plus','하이범 😈','공격 특화: 모든 공격 +15% (속도 · 회전)'],['minus','하이범 😈','실수할 확률 +10%'],['perf','PERFECT','지킬 "C52.5!" · 하이범 "C57.5!"']]},
 minhee:{tag:'너무 강력한 포핸드 · 구리빛 단발 · 하늘색 폴로',rows:[['info','포핸드 60%','보통 공'],['plus','포핸드 10%','공 재끼기: 상대가 받을 수 없는 공 → 득점 + "쵸레이~" 🔥'],['plus','포핸드 20%','공 속도 · 회전 ×1.3'],['minus','포핸드 10%','너무 세게 쳐서 라켓이 깨져 실점 💥'],['perf','PERFECT','포핸드 드라이브 "민희쌤 드라이브!" · 스매싱 "민희쌤 스매싱!" · 쇼트 "민희쌤 쇼트!" · 백드라이브 "민희쌤 백드라이브!"']]}};
 let ciChar=null;
 function showCharInfo(k){if(!characterAvailable(k)){toast('지금은 고를 수 없는 캐릭터예요.',1.8);return;}const L=LOOKS[k],I=CHAR_INFO[k];if(!L||!I){setCharacter(k);markPending();return;}ciChar=k;drawFace($('ci-face'),L);$('ci-name').textContent=L.nick||L.name;$('ci-tag').textContent=I.tag;

diff --git a/docs/characters.md b/docs/characters.md
@@ -23,7 +23,7 @@
 | 송스타 | 수비수 라켓 · 백핸드 롱 수비 · 커트 회전 강화 | 포핸드 공격 5% 실수 | "허허이! 😆" / "으악~ 😱" |
 | 날먹세 | 서브 회전 ×1.3 · 속도 ×1.5 · 받은 공 30% 찬스볼 · 5% 네트 · 5% 아웃 | 급한 이동 타격 범위 −30% | "찬스! 🔥" |
 | 김치성 | 패패승승승: 3점 이상 지면 모든 타구 +30% | 승승패패패: 3점 이상 앞서면 실수 +10% | "엥?" |
-| 지킬앤 희범 | 2점마다 변신 · 하이드: 공격 +20% · 지킬: 실수 −20% | 지킬: 공격 −10% · 하이드: 실수 +10% | 지킬 "C52.5!" · 하이드 "C57.5!" |
+| 지킬앤 하이범 | 2점마다 변신 · 하이범: 공격 +20% · 지킬: 실수 −20% | 지킬: 공격 −10% · 하이범: 실수 +10% | 지킬 "C52.5!" · 하이범 "C57.5!" |
 
 - AI 상대도 경기마다 위 캐릭터 중 랜덤으로 정해지고, 손잡이(왼손 · 오른손)도 랜덤이에요. 같은 주무기 · 약점으로 플레이합니다.
 - 각 캐릭터 자세한 설명은 위의 캐릭터별 섹션을 보세요.
@@ -105,13 +105,13 @@
 - **PERFECT** 때: "**아닌데? 아닌데? 🤨**" 시전
 - AI 아재범도 자기 공이 아웃되면 10%는 엣지라고 우겨서 점수를 가져가요
 
-## 지킬앤 희범 (예전 꿀잠범)
+## 지킬앤 하이범 (예전 꿀잠범)
 
-- **2점마다 변신**: 경기 점수가 2점 날 때마다 **지킬(컬러 얼굴)** ↔ **하이드(흑백 · 좌우 반전 · 째려보는 눈 · 볼 문신)** 이 번갈아 나와 싸워요
+- **2점마다 변신**: 경기 점수가 2점 날 때마다 **지킬(컬러 얼굴)** ↔ **하이범(강렬한 표정)** 이 번갈아 나와 싸워요
 - **지킬 😇 (수비 특화)**: 실수할 확률 −20% · 대신 모든 공격 −10% (속도 · 회전)
-- **하이드 😈 (공격 특화)**: 모든 공격 +20% (속도 · 회전) · 대신 실수할 확률 +10%
-- **PERFECT** 때: 지킬 "**C52.5!**" · 하이드 "**C57.5!**"
-- AI 상대로도 나와요 (AI 지킬: 리턴 실수 −20% · 느린 공 / AI 하이드: 리턴 확률 −10% · 빠르고 회전 많은 공)
+- **하이범 😈 (공격 특화)**: 모든 공격 +20% (속도 · 회전) · 대신 실수할 확률 +10%
+- **PERFECT** 때: 지킬 "**C52.5!**" · 하이범 "**C57.5!**"
+- AI 상대로도 나와요 (AI 지킬: 리턴 실수 −20% · 느린 공 / AI 하이범: 리턴 확률 −10% · 빠르고 회전 많은 공)
 
 ## 카사노바 윤
 
